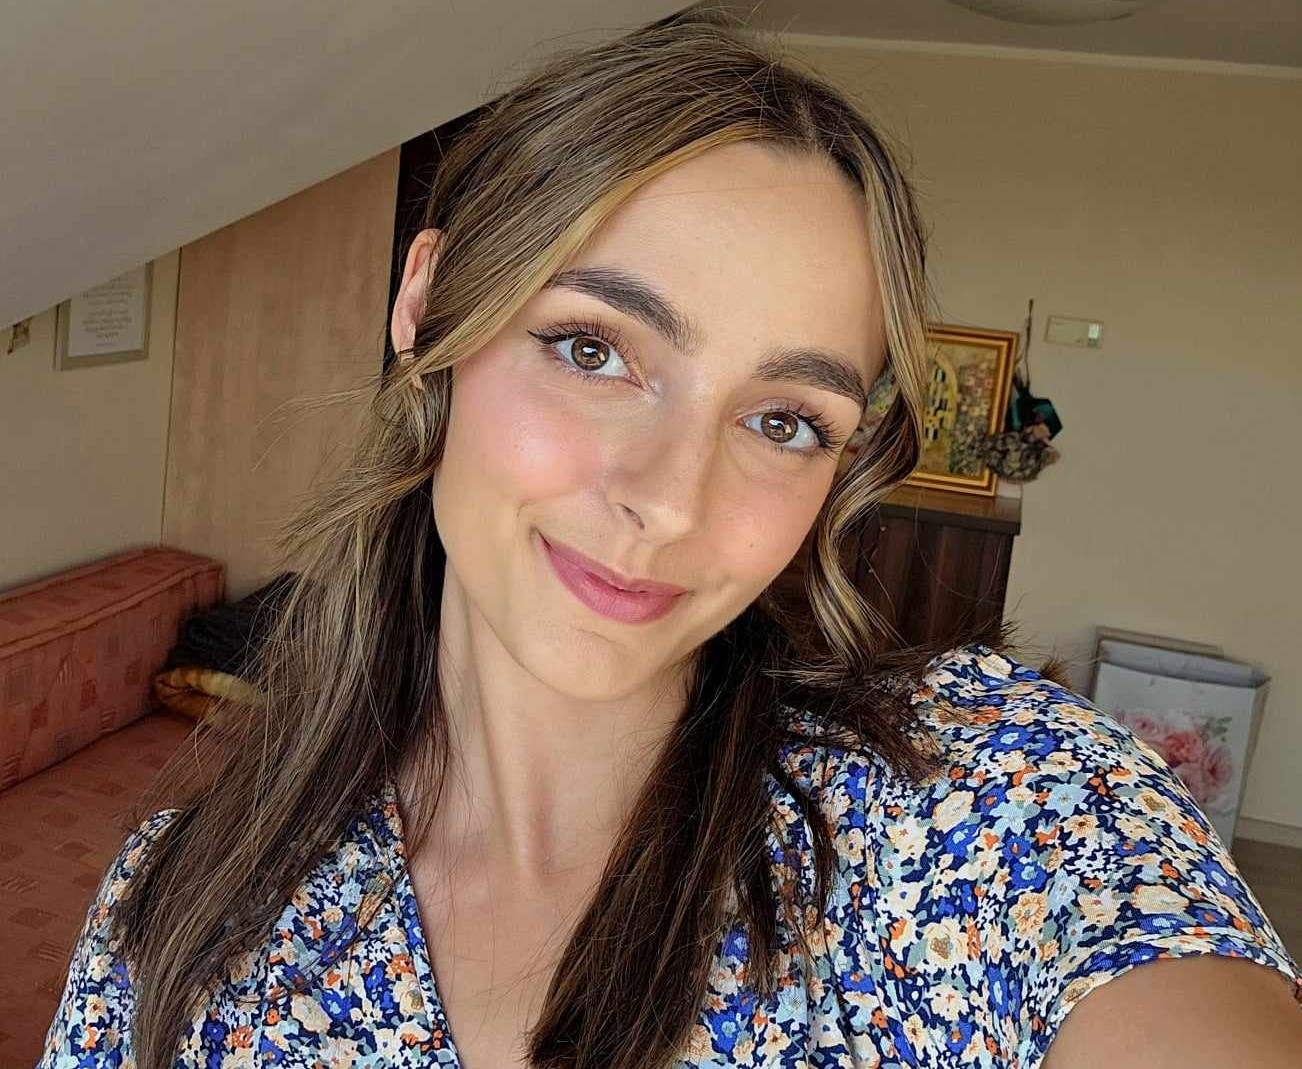
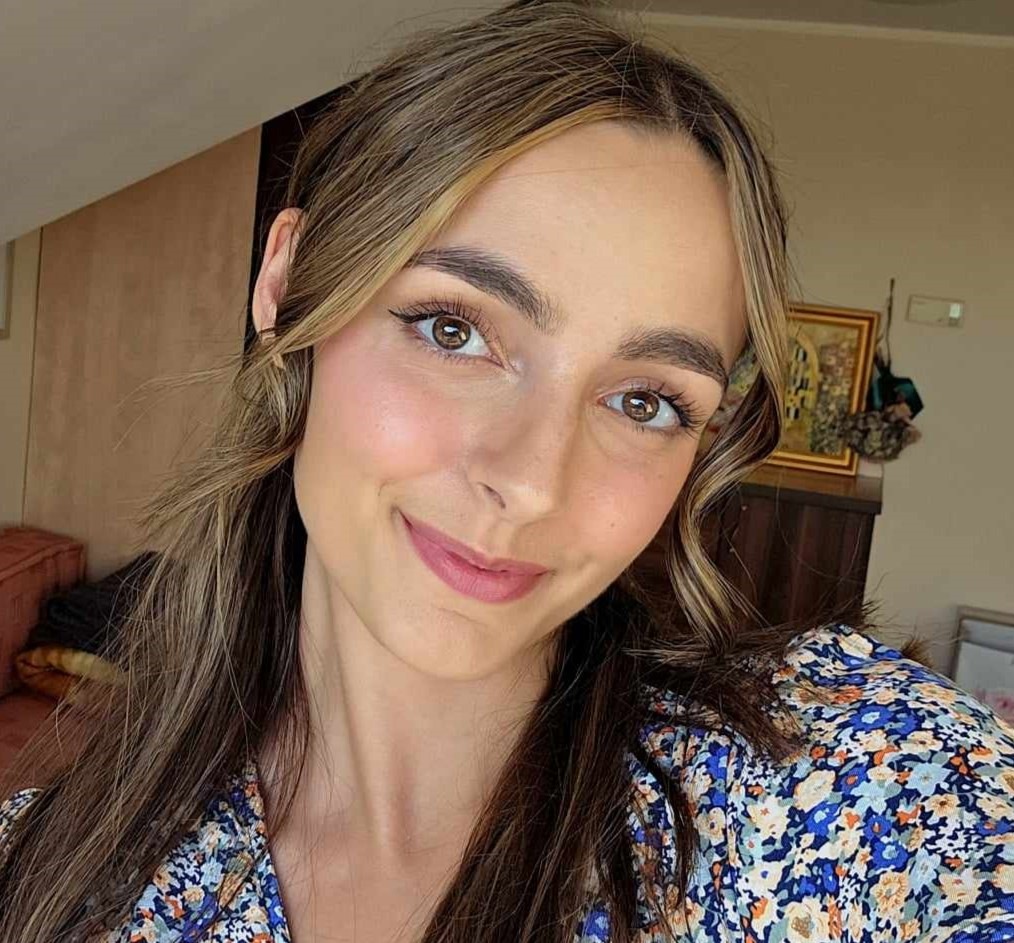
Added personal informations to teamUpdated visualization of pages

diff --git a/index.html b/index.html
@@ -3,7 +3,7 @@
 <head>
     <meta charset="UTF-8">
     <meta name="viewport" content="width=device-width, initial-scale=1.0">
-    <title>Project | PestoMoc</title>
+    <title>PestoMoc</title>
     <link rel="stylesheet" href="docs/assets/css/style.css">
     <link rel="stylesheet" href="https://fonts.googleapis.com/css2?family=Roboto+Slab:wght@400;700&family=Fira+Sans:wght@400;500&display=swap">
     <link rel="stylesheet" href="https://fonts.googleapis.com/css2?family=Dancing+Script:wght@400;700&display=swap">
@@ -25,7 +25,7 @@
 
 <header>
     <div id=home class="header-content">
-        <h1>Per capita CO₂ emissions</h1>
+        <h1>World at Risk: The Global Pollution Crisis</h1>
         <p><br><b>Hi!</b><br> If you are reading this you are probably interested in gaining wider knowledge about worldwide emission of CO₂.
             <br>But if you are not interested in this topic we hope that after spending some minutes on our website 
             <br>you will not think about this time as wasted and you will learn something interesting for you.<br><br>

diff --git a/team_intro.html b/team_intro.html
@@ -10,7 +10,7 @@
 
 
 </head>
-<body>
+<body id="page_bcg">
 
     <div class="sidebar">
         <img src="docs/assets/img/pesto_logo.png">
@@ -28,7 +28,7 @@
         <h1 id="our_team">Our Team</h1>
         <div class="team-container">
             <div class="intro">
-                <img src="docs/assets/img/profile1.jpg" alt="Martyna Majewska">
+                <img src="docs/assets/img/martyna.jpg" alt="Martyna Majewska">
                 <section>
                     <h2>Martyna Majewska</h2>
                     <p>
@@ -68,7 +68,7 @@
     
             <!-- Third Team Member -->
             <div class="intro">
-                <img src="docs/assets/img/profile3.jpg" alt="Federico Lupio">
+                <img src="docs/assets/img/federico.jpg" alt="Federico Lupio">
                 <section>
                     <h2>Federico Lupi</h2>
                     <p>

diff --git a/docs/assets/css/style.css b/docs/assets/css/style.css
@@ -611,3 +611,10 @@ html {
     width: 40px;
     height: 40px;
 }
+
+#page_bcg{
+    background-color: rgb(190, 230, 187);
+    background-image: url('/docs/assets/img/background.jpg'); /* Example for image background */
+    background-size: cover;
+    background-repeat: no-repeat;
+}

diff --git a/project_desc.html b/project_desc.html
@@ -9,7 +9,7 @@
     <link rel="stylesheet" href="https://fonts.googleapis.com/css2?family=Roboto+Slab:wght@400;700&family=Fira+Sans:wght@400;500&display=swap">
 
 </head>
-<body>
+<body id="page_bcg">
 
     <div class="sidebar">
         <img src="docs/assets/img/pesto_logo.png">

diff --git a/assignment1.html b/assignment1.html
@@ -9,7 +9,7 @@
     <link rel="stylesheet" href="https://fonts.googleapis.com/css2?family=Roboto+Slab:wght@400;700&family=Fira+Sans:wght@400;500&display=swap">
 
 </head>
-<body>
+<body >
 
     <div class="sidebar">
         <img src="docs/assets/img/pesto_logo.png">
